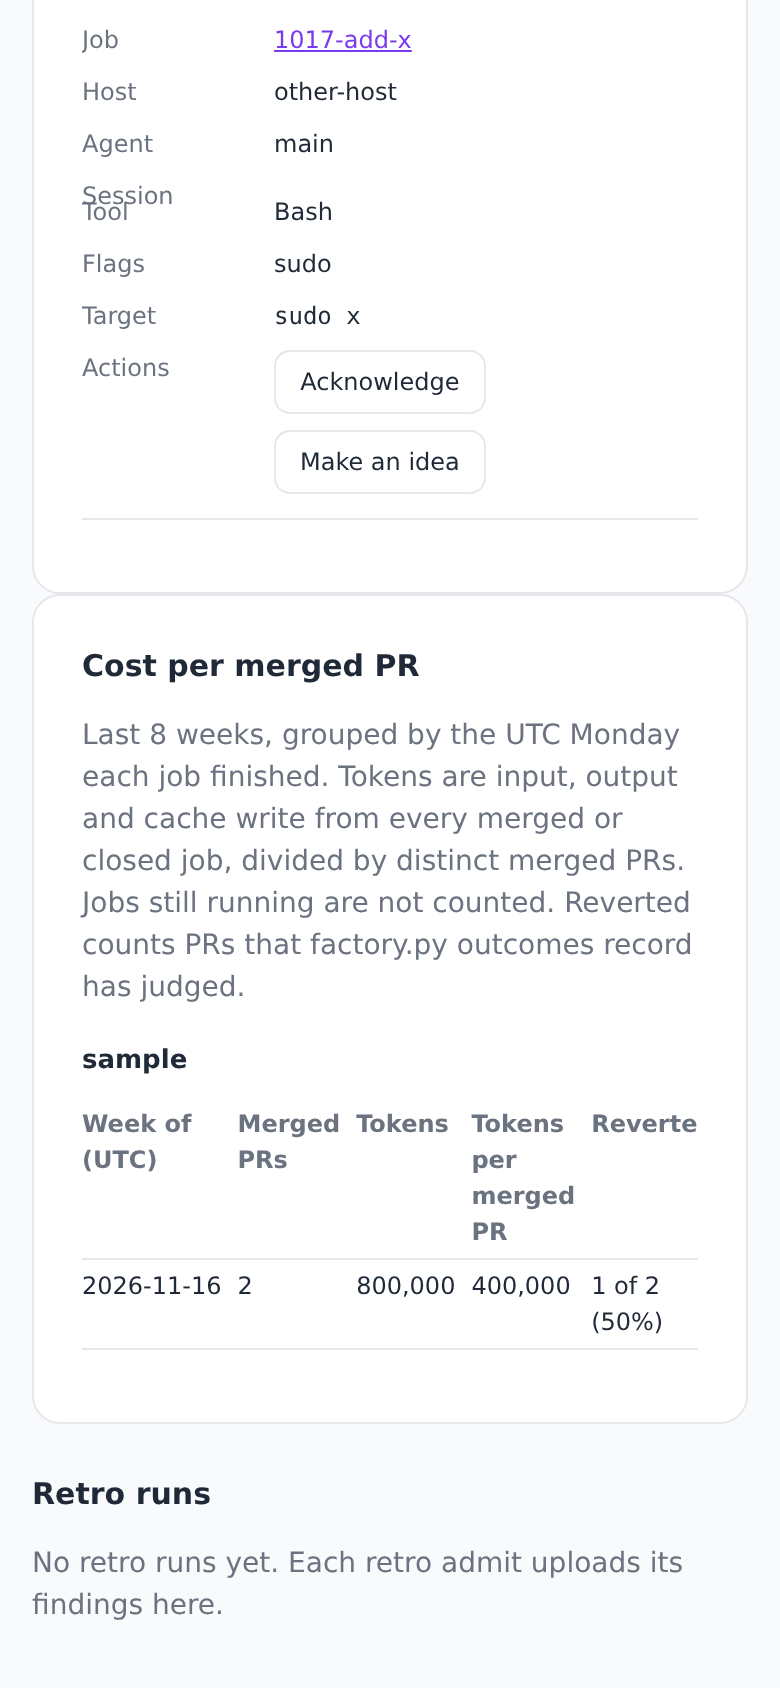
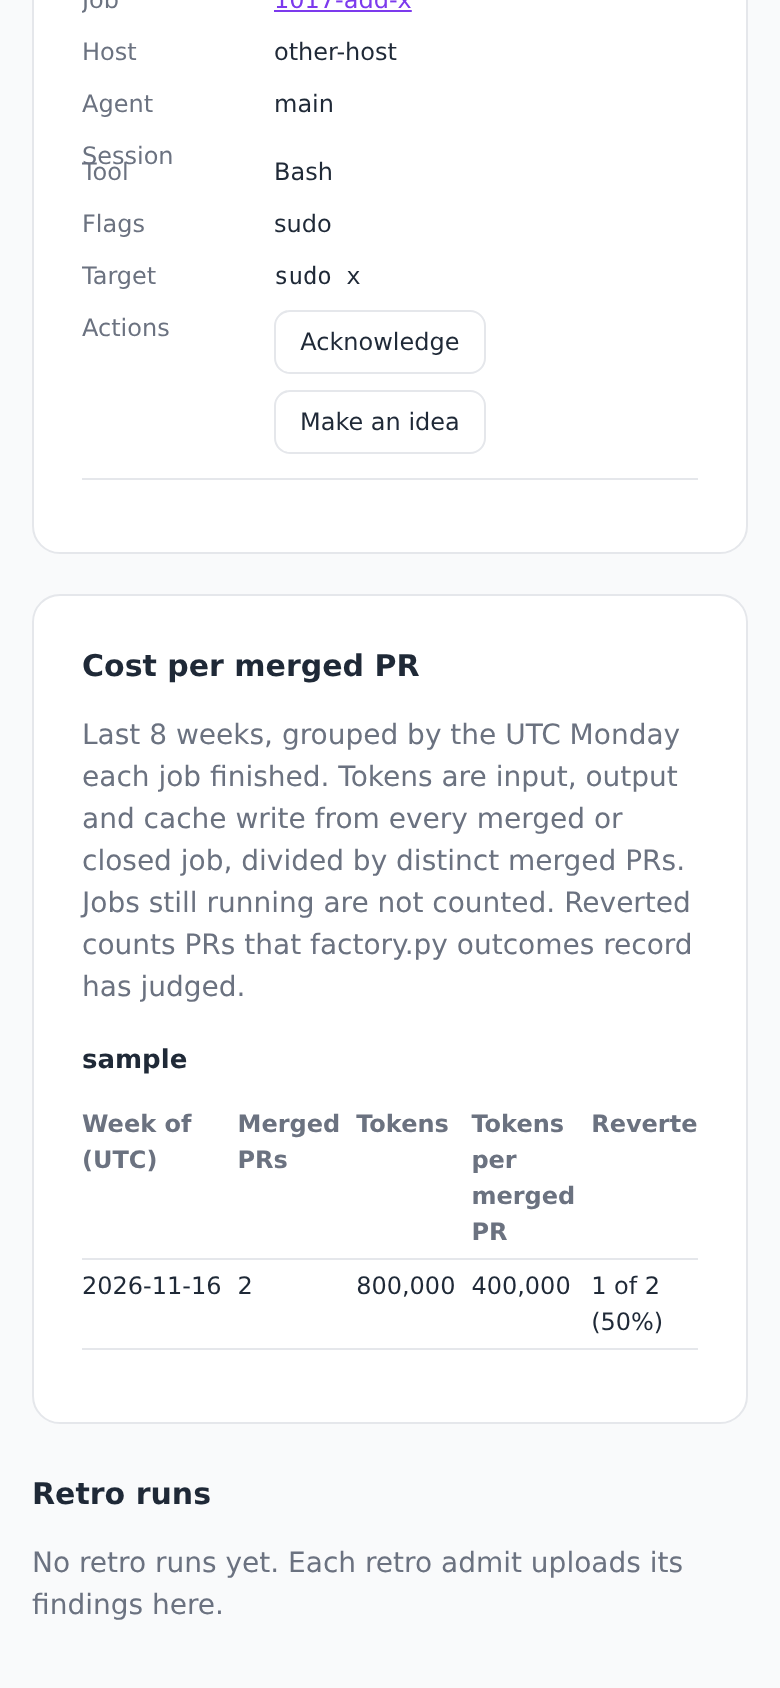
Space the spend card from Red flags and show loading copy on reopen

Changed region(s): [[0.3385, 0.0, 0.6154, 0.3081], [0.0923, 0.0, 0.2154, 0.2464]]

diff --git a/web/dashboard.html b/web/dashboard.html
@@ -215,6 +215,7 @@ try { const t = localStorage.getItem('factory-theme'); if (t === 'light' || t ==
   body[data-view="notifications"] #board { display: none; }
   #retros-page { max-width: 1040px; }
   .retros-runs-heading { font-size: 15px; margin: 24px 0 12px; }
+  #spend { margin-top: 20px; }
   #audit-flags td a { color: var(--accent); }
   #audit-flags td a { white-space: nowrap; }
   #audit-flags td:nth-child(5) a { display: block; }
@@ -3764,6 +3765,7 @@ $('audit-flags-next').addEventListener('click', () => auditFlagsMove(1, $('audit
 let spend = null, spendFailed = false;
 
 async function loadSpend() {
+  spendFailed = false;
   renderSpend();
   try {
     const r = await fetch('./api/spend', { cache: 'no-store' });
